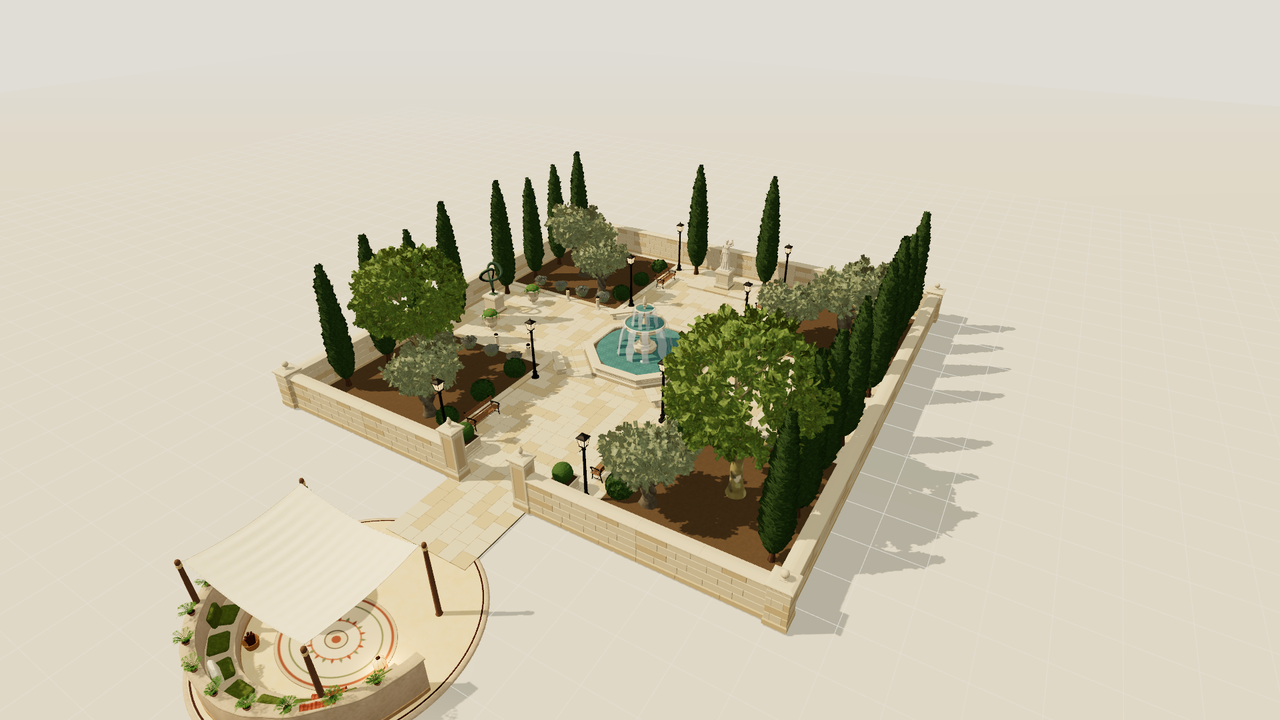
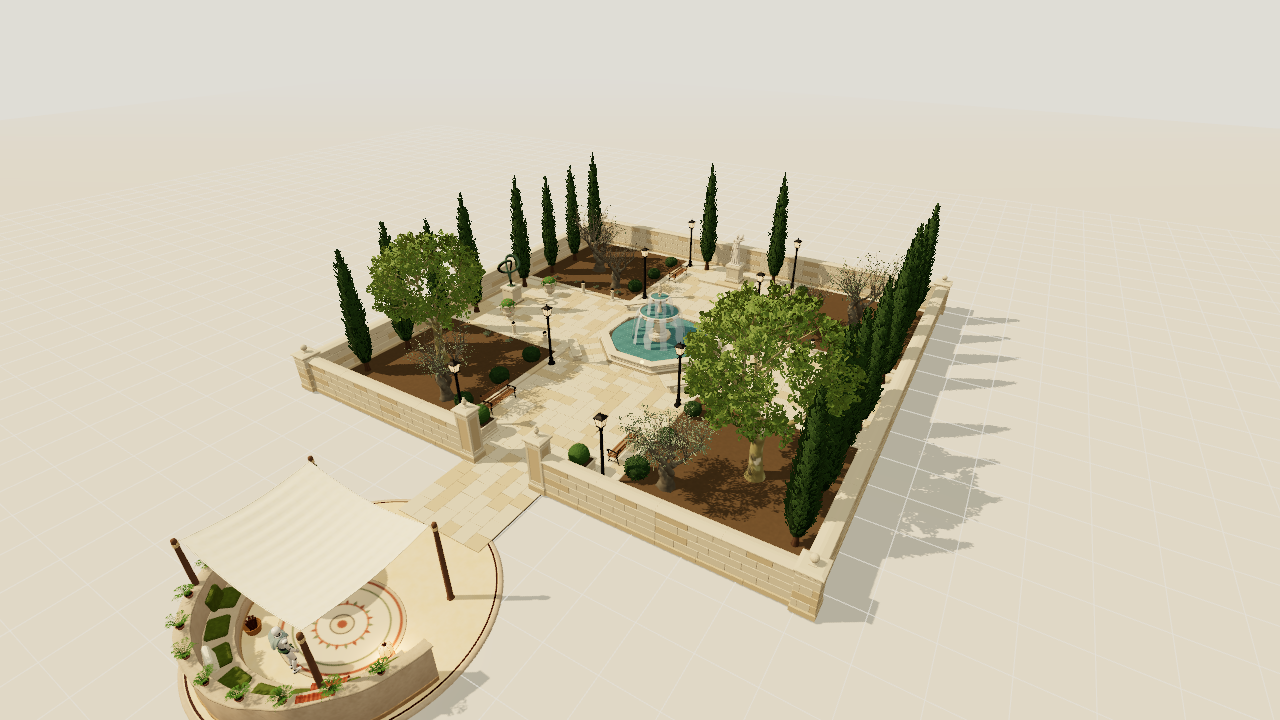
Give the maker to every walkable scene: new worlds, bundled examples, explicit upgrade.
Possession stays an explicit, versioned record in each world. The construct and
kinetic templates start with inhabitant.maker@1 and runtime.possession
{preset:"maker",camera:"first"}, so init, new library worlds and the kinetic
example walk as the maker. The Quiet Courtyard is rebundled from source revision
9, which adds only the maker, with a preview retaken on the hub.

User worlds are never migrated: world_check reports an inhabitant-upgrade
suggestion for the legacy ground plane, and Observe offers Add the maker as a new
revision (withMaker). Docs and the authoring skill describe the legacy bodyless
walk as the fallback for worlds that opt out.

Changed region(s): [[0.125, 0.2139, 0.8125, 1.0]]

diff --git a/src/world/panels.jsx b/src/world/panels.jsx
@@ -5,6 +5,7 @@ import {referenceUrl} from './moodboard.jsx';
 import {connectName,modelGroups} from './presence.mjs';
 import {probe} from '../prototype/scene.jsx';
 import {selectableItem} from './selection.mjs';
+import {withMaker} from './inhabitant.mjs';
 
 export function BibleEditor({world,run,drafts,writeDisabled}){
   const {api,url:scopedUrl}=useWorldClient();
@@ -84,6 +85,6 @@ export function ObservePanel({runtime,world,observation,cameraMode,locked,paused
       {Object.entries(o?.activity?.states||{}).map(([id,s])=><p className="hd-meta" key={id}>{id}: {s.open!==undefined?(s.open?'open':'closed'):(s.running?'running':'stopped')} / {(s.angle??0).toFixed(2)} rad</p>)}
     </details>
     <div className="hd-row"><button className="b" disabled={writeDisabled} onClick={()=>run(async()=>setCoherence(await api('check',{})))}>Check world</button><span className="hd-meta">Read-only observations; no quality verdict.</span></div>
-    {coherence&&<div className="hd-card hd-coherence" role="status"><span className="hd-caps">Advisory · revision {coherence.worldRevision}</span>{coherence.checks.map(c=><p key={c.id}><strong>{c.id}: {c.status}</strong><br/>{c.message}</p>)}</div>}
+    {coherence&&<div className="hd-card hd-coherence" role="status"><span className="hd-caps">Advisory · revision {coherence.worldRevision}</span>{coherence.checks.map(c=><p key={c.id}><strong>{c.id}: {c.status}</strong><br/>{c.message}</p>)}{coherence.checks.some(c=>c.id==='inhabitant-upgrade')&&!world.scene.runtime?.possession&&<div className="hd-row"><button className="b" disabled={writeDisabled||coherence.worldRevision!==world.revision} onClick={()=>run(async()=>{await api('world',{baseRevision:world.revision,scene:withMaker(world.scene)});setCoherence(await api('check',{}));})}>Add the maker</button><span className="hd-meta">Saves a new revision; undo restores the bodyless walk.</span></div>}</div>}
   </div>;
 }

diff --git a/docs/terrain-and-inhabitants.md b/docs/terrain-and-inhabitants.md
@@ -1,7 +1,7 @@
 # Terrain, ocean and possession
 
 Schema 2 worlds can opt into a heightfield, a bounded ocean and the built-in maker
-inhabitant. These are reusable runtime capabilities. The world agent authors their
+inhabitant. New worlds and every bundled example start with the maker. These are reusable runtime capabilities. The world agent authors their
 records through `world_propose`; the user applies the proposal. Existing worlds
 and installed workspace instructions are not rewritten. `world_read` returns the
 current host's complete spatial contract and valid examples on every read.
@@ -243,8 +243,22 @@ body consume one actor feet position. Switching view does not respawn the actor.
 
 On terrain, `runtime.spawn` X/Z selects the support point; eye height derives from
 terrain height. Without terrain, spawn Y minus 1.72 is the actor's ground plane.
-Without possession, the legacy walker keeps its fixed 1.72 metre eye-height rule;
-enable the maker for terrain-following movement.
+### The maker by default, the legacy walk as fallback
+
+Possession stays an explicit, versioned record in each world; the engine never
+injects it. `holodeck init`, a new library world and the agent's capability
+examples all start with `{"preset":"maker","camera":"first"}` and
+`inhabitant.maker@1`, so their exports and history say the world runs the maker.
+The bundled courtyard, Cove and kinetic examples gained it as a new revision.
+
+A world without possession keeps the legacy walk: a bodyless camera with a fixed
+1.72 metre eye height on flat ground, no jumping, swimming or walkable tops. It
+remains the fallback for worlds that opt out. Existing user worlds are never
+migrated. For them `world_check` (and **Check world** in Observe) reports an
+`inhabitant-upgrade` suggestion carrying the record to add; the agent can
+propose it, or **Add the maker** saves it as a new revision that undo reverts.
+Walk the spawn, routes and any walkable tops again afterwards: the maker is 1.82m
+tall rather than 1.72m, so a beam between those heights now blocks it.
 
 The standing actor has radius 0.22m, height 1.82m and eye height 1.72m. Movement is
 bounded in small steps, allows slopes up to 45 degrees and an upward step of 0.35m,

diff --git a/docs/example-worlds.md b/docs/example-worlds.md
@@ -1,7 +1,7 @@
 # Fresh worlds and runtime examples
 
 `init <new-folder>` starts an empty grid construct with the current modular cove,
-walk and overview cameras, and cove collision. `--example construct` selects the
+the maker in first person, overview camera, and cove collision. `--example construct` selects the
 same starter explicitly. Its origin blockers cover the current shell's seat and
 back; the board retains the starter placement. All disappear with the cove.
 
@@ -20,7 +20,8 @@ placements, terrain, lighting and supported behavior, or replace an asset with a
 new delivery. Original procedural asset sources, reference attachments and agent
 history are excluded; the GLBs are not the original Kiln source programs.
 
-Courtyard and kinetic remain smaller architectural fixtures. The cove uses its
+Courtyard and kinetic remain smaller architectural fixtures. Like the Cove,
+both walk as the maker on flat, box-collided ground (no terrain). The cove uses its
 existing Kiln-authored modules. The courtyard has procedural atlas foliage, wind
 and textured surfaces; its paths, architecture and mechanisms use built-in shapes.
 Replace a shape with an asset-backed placement while retaining its ID and behavior.

diff --git a/skills/holodeck-author-world/references/current-runtime.md b/skills/holodeck-author-world/references/current-runtime.md
@@ -159,8 +159,12 @@ The board has a local collider {size,offset} following its placement.
 
 Stable IDs preserve transient activity across appearance and placement changes.
 Changing behavior configuration resets its state; removal drops it. Pause/reset
-does not save a revision. Legacy movement is ground-plane walking. The optional
-maker follows shared terrain triangles, wades and swims with the shared water
+does not save a revision. New worlds and bundled examples include the maker
+(`runtime.possession` {preset:"maker",camera:"first"} with inhabitant.maker@1).
+Without it, the legacy walk is the fallback: a bodyless ground-plane camera at a
+fixed 1.72m eye height. Never add or remove possession silently; when
+`world_check` reports `inhabitant-upgrade`, offer the user a proposal that adds
+the record, then check spawn, routes and walkable tops again. The maker follows shared terrain triangles, wades and swims with the shared water
 clock; first and third person use the same actor feet anchor. Overview is an
 observation camera. There is no rigid-body solver or moving-body push response.
 Runtime proposals use the same world tools and revision checks as v1.

diff --git a/docs/architecture.md b/docs/architecture.md
@@ -51,8 +51,9 @@ at measured hot paths while preserving semantic identity and source mappings.
 
 Define routes, destinations, support, clearance and sightlines before decoration.
 Rendering, collision and interaction share placement frames. The current box query
-supports yaw and scale; pitch/roll collision is rejected. Legacy walking uses a fixed-height
-ground plane. Optional heightfield, ocean and maker possession share terrain
+supports yaw and scale; pitch/roll collision is rejected. New worlds and bundled
+examples walk as the maker; a world without possession falls back to the legacy
+fixed-height ground-plane walk. Optional heightfield, ocean and maker possession share terrain
 triangles, water time and one actor support anchor across first/third person.
 Collider boxes marked `walkable` add their tops to that support, so the walker and
 patrols can cross a jetty deck or climb stair treads; walkable boxes are static and

diff --git a/docs/coherence-protocol.md b/docs/coherence-protocol.md
@@ -23,7 +23,10 @@ The query uses a 0.22 metre walker radius at the fixed 1.72 metre eye height.
 In worlds with terrain or maker possession, routes instead follow supported feet,
 including walkable collider tops, with the shared slope, step and water rules, and
 flag a `drop` issue where the feet fall more than one step between samples; see
-[terrain and inhabitants](terrain-and-inhabitants.md). The inventory reports
+[terrain and inhabitants](terrain-and-inhabitants.md). A world still on the
+legacy bodyless walk gets an `inhabitant-upgrade` check with status `suggestion`
+and the possession record and module list to add; the check never adds them.
+The inventory reports
 target, placed and removed counts for each scatter.
 
 Fresh matching browser activity poses inform moving blockers. Observations older
